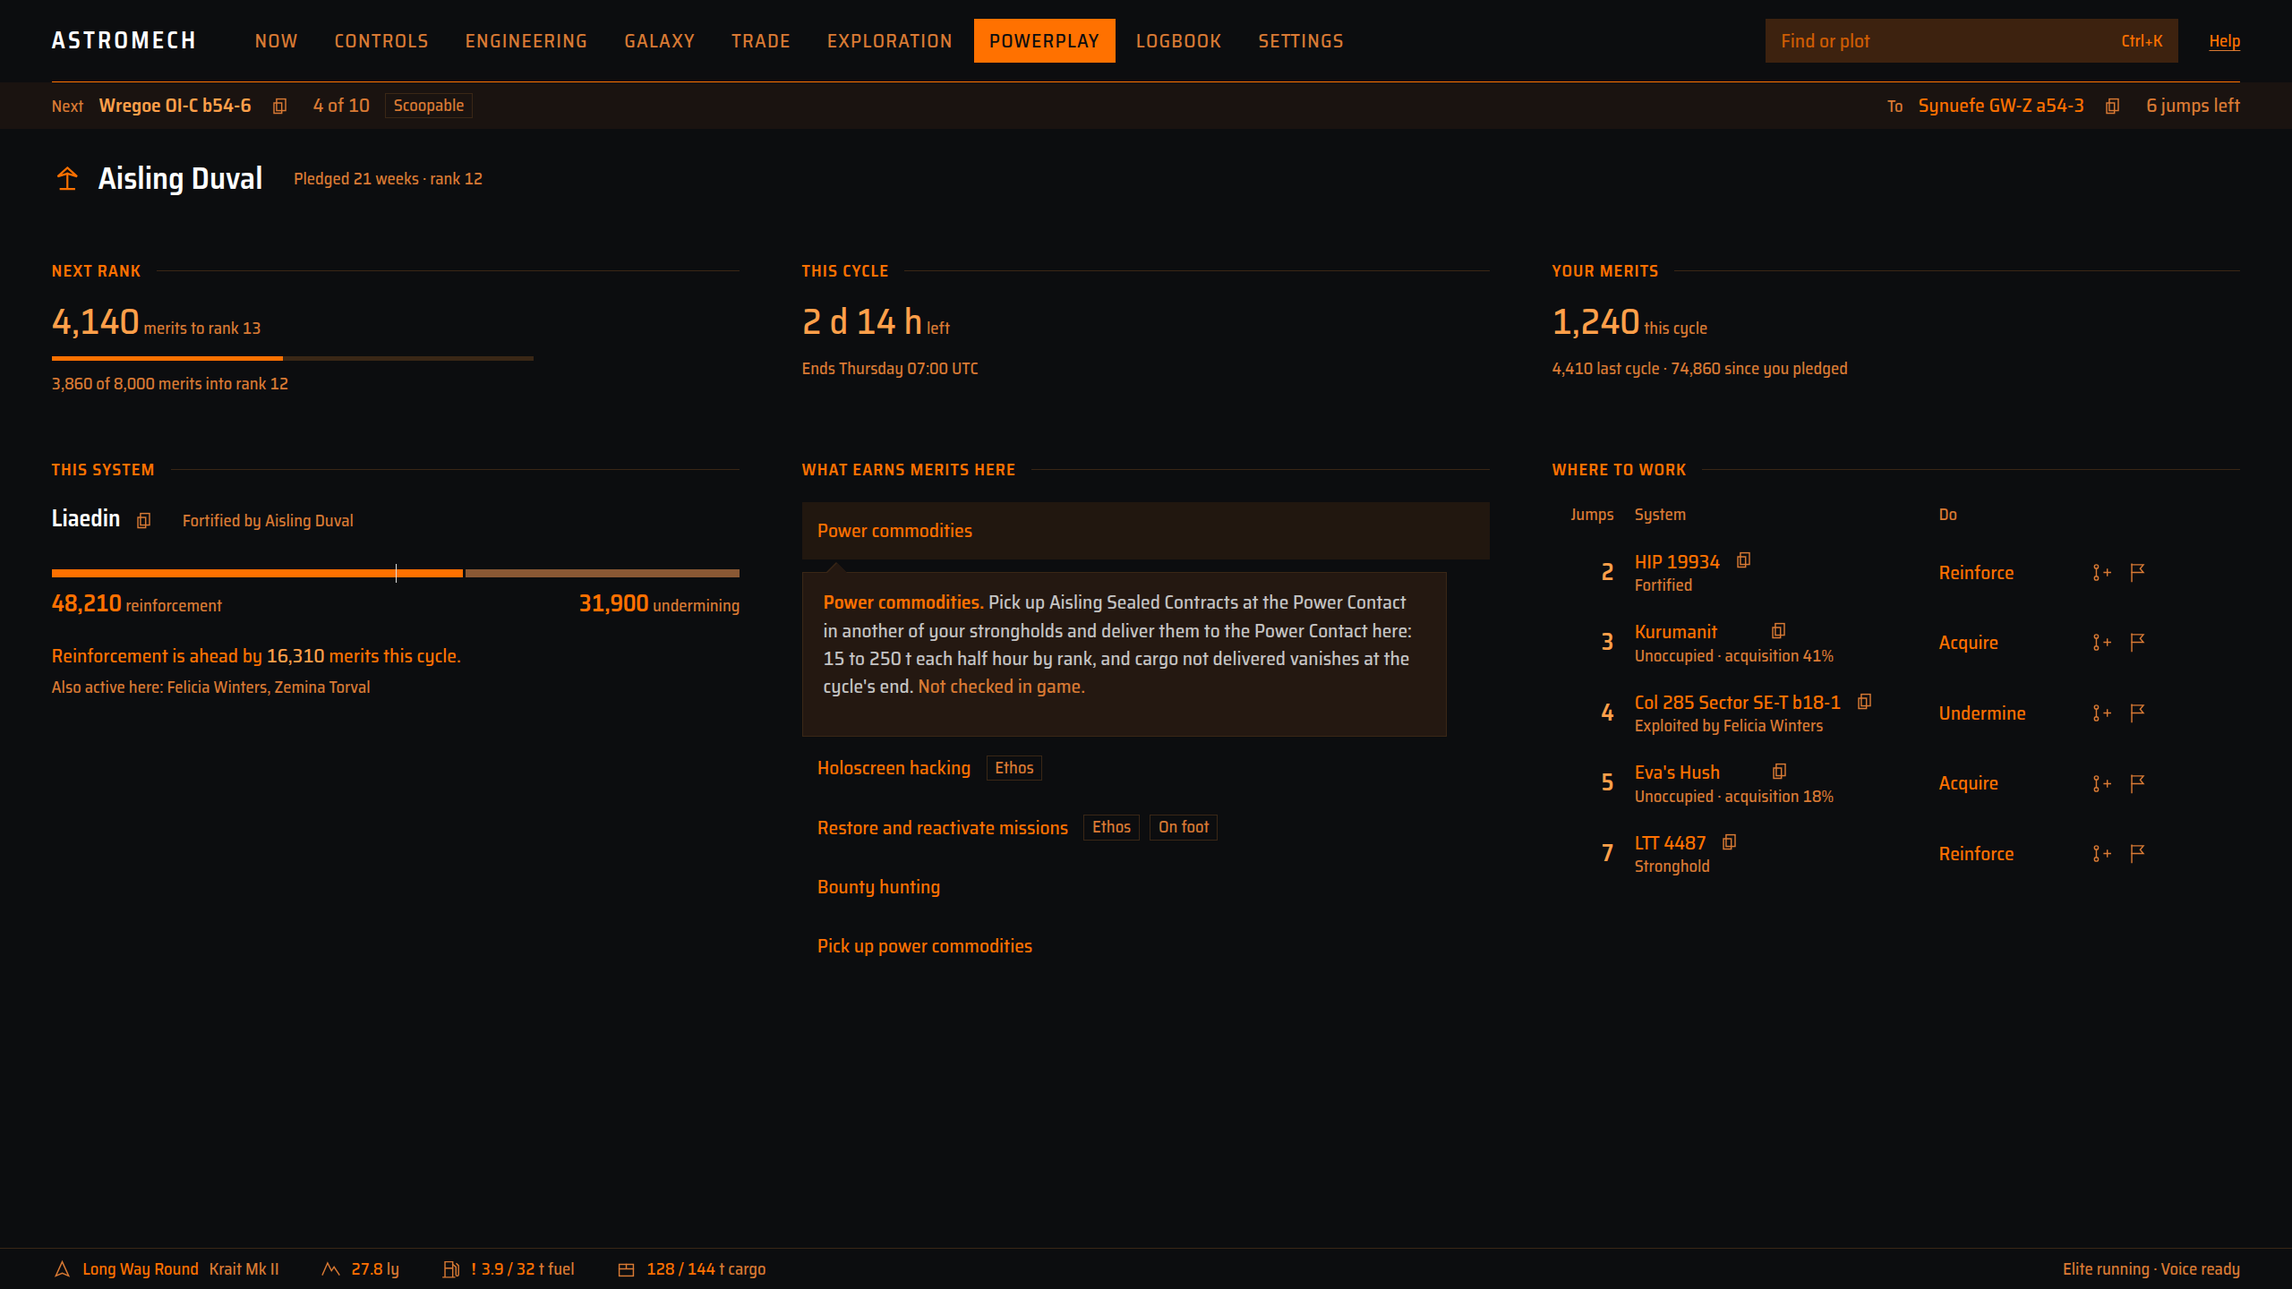
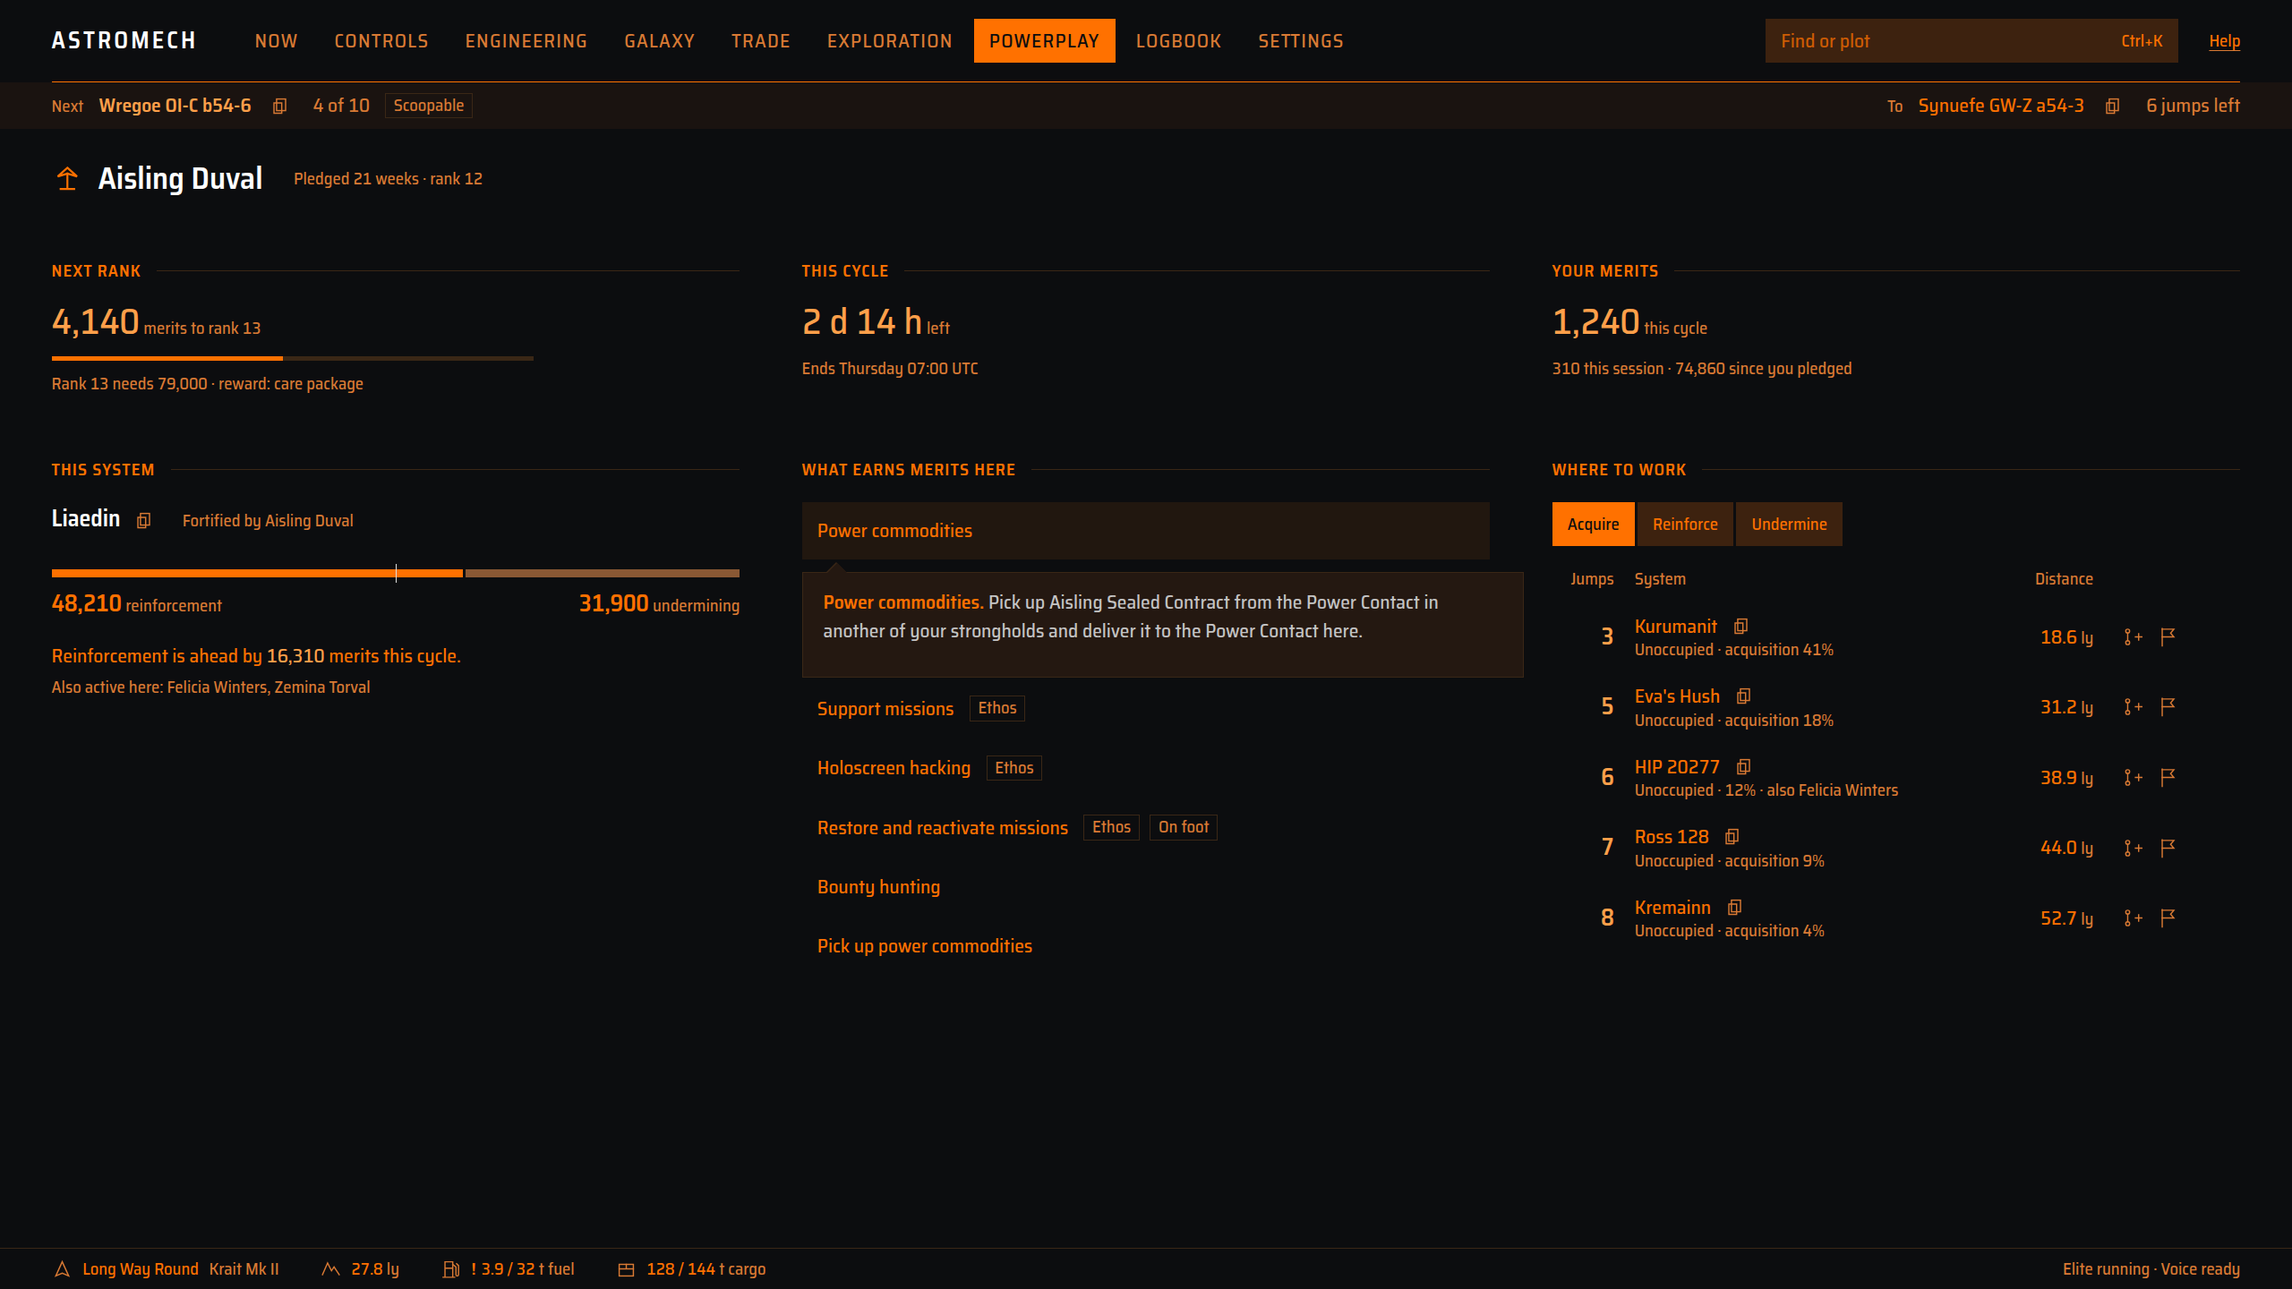
Glow-up mockups: show only data the app has
Engineers and Ship no longer show counted unlock progress (2 of 5, 9 of 25 and
the rest) or its meters: the unlock tree gives a step's text, not a count. The
Engineers panel leads with 'Invitation next' in words. The Bubble / Colonia
buttons are now a plain summary label. The Materials summary is worked out
from the grid (1,303 held). Powerplay drops the last-cycle total and keeps to
StandingView, PowerplaySystemView and the powerplay_targets reply: session and
lifetime merits, the next rank's threshold and reward, the activity's own
how-to text in the Tip, and one kind of target at a time chosen as on the real
page.

diff --git a/app/src/mockups/glow/Engineers.svelte b/app/src/mockups/glow/Engineers.svelte
@@ -1,35 +1,36 @@
 <script lang="ts">
   // Glow-up mockup: Engineering > Engineers as the unlock tree (List with a detail panel, the list
   // drawn as a graph). Columns by depth, each engineer joined to the one who introduces them.
-  // Unlocked: lit name and grade pips. Known, not unlocked: base orange with the one next step
-  // and a thin meter. Not introduced: dim. The links are the game's own introductions.
+  // Unlocked: lit name and grade pips (the journal gives the rank). Known or invited: base orange
+  // with the one next step in words, as the unlock tree states it; the app has no counted progress
+  // toward a step. Not introduced: dim. The links are the game's own introductions.
   import Frame from "./Frame.svelte";
   import Copy from "./Copy.svelte";
 
-  type Eng = { name: string; state: "unlocked" | "known" | "hidden"; grade?: number; at?: string; step?: string; have?: number; need?: number; count?: string; kids?: Eng[] };
+  type Eng = { name: string; state: "unlocked" | "known" | "hidden"; grade?: number; at?: string; step?: string; kids?: Eng[] };
   // The Bubble's ship engineers and their introductions, as data/catalog/engineer-unlocks.json
-  // has them; Colonia's four sit behind the Colonia choice. Introductions come once the rank with
+  // has them; Colonia's four are left out, and the summary line says so. Introductions come once the rank with
   // the introducer passes grade 3, so every introducer here with a known engineer is at grade 4+.
   const roots: Eng[] = [
     { name: "Felicity Farseer", state: "unlocked", grade: 5, at: "Deciat", kids: [
       { name: "Juri Ishmaak", state: "unlocked", grade: 4, at: "Giryak", kids: [
-        { name: "Colonel Bris Dekker", state: "known", step: "Hand in 1M cr of combat bonds", have: 420, need: 1000, count: "420k of 1M" },
+        { name: "Colonel Bris Dekker", state: "known", step: "Unlock: 1,000,000 cr of combat bonds" },
         { name: "The Sarge", state: "known", step: "Invitation: Federal Navy Midshipman" },
       ] },
     ] },
     { name: "Elvira Martuuk", state: "unlocked", grade: 5, at: "Khun", kids: [
-      { name: "Marco Qwent", state: "known", step: "Bring 25 Modular terminals", have: 9, need: 25, kids: [
+      { name: "Marco Qwent", state: "known", step: "Unlock: 25 Modular terminals", kids: [
         { name: "Professor Palin", state: "hidden" },
         { name: "Chloe Sedesi", state: "hidden" },
         { name: "Lori Jameson", state: "hidden" },
       ] },
-      { name: "Zacariah Nemo", state: "known", step: "Bring 25 Xihe biomorphic companions", have: 0, need: 25 },
+      { name: "Zacariah Nemo", state: "known", step: "Unlock: 25 Xihe biomorphic companions" },
     ] },
-    { name: "The Dweller", state: "known", step: "Deal at 5 black markets", have: 2, need: 5, kids: [
+    { name: "The Dweller", state: "known", step: "Invitation: deal at 5 black markets", kids: [
       { name: "Lei Cheung", state: "hidden", kids: [{ name: "Ram Tah", state: "hidden" }] },
     ] },
     { name: "Liz Ryder", state: "unlocked", grade: 4, at: "Eurybia", kids: [
-      { name: "Hera Tani", state: "known", step: "Bring 50 Kamitra cigars", have: 12, need: 50, kids: [
+      { name: "Hera Tani", state: "known", step: "Unlock: 50 Kamitra cigars", kids: [
         { name: "Broo Tarquin", state: "hidden" },
         { name: "Tiana Fortune", state: "hidden" },
       ] },
@@ -37,7 +38,7 @@
     { name: "Tod McQuinn", state: "unlocked", grade: 5, at: "Wolf 397", kids: [
       { name: "Selene Jean", state: "unlocked", grade: 5, at: "Kuk", kids: [
         { name: "Didi Vatermann", state: "unlocked", grade: 2, at: "Leesti" },
-        { name: "Bill Turner", state: "known", step: "Bring 50 Bromellite", have: 31, need: 50 },
+        { name: "Bill Turner", state: "known", step: "Unlock: 50 Bromellite" },
       ] },
     ] },
   ];
@@ -73,8 +74,7 @@
     <section class="main">
       <div class="bar">
         <span class="choices"><button class="choice on">Ship engineers</button><button class="choice">On-foot engineers</button></span>
-        <span class="choices"><button class="choice on">Bubble</button><button class="choice">Colonia</button></span>
-        <span class="label">{counts.unlocked} unlocked · {counts.known} known · {counts.hidden} not introduced yet</span>
+        <span class="label">Bubble ship engineers · {counts.unlocked} unlocked · {counts.known} known · {counts.hidden} not introduced yet</span>
       </div>
       <div class="graph" style="width: {3 * W + 2 * GX}px; height: {height}px; --w: {W}px; --h: {H}px">
         <svg width={3 * W + 2 * GX} height={height} aria-hidden="true">
@@ -86,8 +86,7 @@
             {#if n.state === "unlocked"}
               <span class="sub"><span class="pips">{#each [1, 2, 3, 4, 5] as g (g)}<span class:on={g <= (n.grade ?? 0)}></span>{/each}</span><span class="label">{n.at}</span></span>
             {:else if n.state === "known"}
-              <span class="sub step"><span class="label">{n.step}</span>{#if n.need}<span class="count">{n.count ?? `${n.have} of ${n.need}`}</span>{/if}</span>
-              {#if n.need && n.name !== selected}<span class="meter"><span style="width: {(100 * (n.have ?? 0)) / (n.need ?? 1)}%"></span></span>{/if}
+              <span class="sub"><span class="label">{n.step}</span></span>
             {:else}
               <span class="sub"><span class="label">Not introduced</span></span>
             {/if}
@@ -100,11 +99,11 @@
       <h2 class="title">The Dweller</h2>
       <p class="where"><span class="label">Black Hide in</span><span class="sys">Wyrd</span><Copy /></p>
       <p class="label">84 ly · 5 jumps</p>
-      <p class="key"><span class="vxl white">2</span><span class="unit">of 5 black markets</span></p>
+      <p class="key">Invitation next</p>
       <h3 class="section">To unlock</h3>
       <ol class="steps">
-        <li><span class="n">1</span><span>Invitation: deal in stolen or illicit goods at 5 black markets <span class="mid">· 2 of 5</span></span></li>
-        <li><span class="n">2</span><span>Unlock: pay 500,000 cr <span class="mid">· you have 41.2M</span></span></li>
+        <li><span class="n">1</span><span>Invitation: deal in stolen or illicit goods at 5 black markets</span></li>
+        <li><span class="n">2</span><span>Unlock at Wyrd: pay 500,000 cr</span></li>
       </ol>
       <h3 class="section">Works on</h3>
       <dl class="mods">
@@ -131,10 +130,6 @@
   .nm { font-weight: 500; line-height: 1.2; color: var(--accent); }
   .sub { display: flex; align-items: center; gap: var(--sp-3); min-width: 0; }
   .sub .label { overflow: hidden; text-overflow: ellipsis; }
-  .step { justify-content: space-between; }
-  .count { font-size: var(--fs-s); color: var(--accent); flex: none; }
-  .node .meter { position: absolute; left: 0; right: 0; bottom: 0; height: 2px; }
-  .node .meter > span { background: var(--orange-mid); }
   .node.unlocked .nm { color: var(--orange-lit); }
   .node.hidden { background: var(--bg); outline: 1px solid var(--line); outline-offset: -1px; }
   .node.hidden .nm, .node.hidden .label { color: var(--orange-dim); }
@@ -145,7 +140,7 @@
   .where { display: flex; align-items: baseline; gap: var(--sp-2); margin-top: var(--sp-1); white-space: nowrap; }
   .where :global(.copy) { align-self: center; margin-right: var(--sp-1); }
   .sys { color: var(--accent); }
-  .key { display: flex; align-items: baseline; margin: var(--sp-6) 0 var(--sp-8); }
+  .key { margin: var(--sp-6) 0 var(--sp-8); font-size: var(--fs-xl); font-weight: 500; line-height: 1.2; color: var(--text-hi); }
   .section { margin-bottom: var(--sp-3); }
   .steps { display: grid; gap: var(--sp-2); margin-bottom: var(--sp-8); }
   .steps li { display: flex; gap: var(--sp-3); color: var(--accent); }

diff --git a/app/src/mockups/glow/Powerplay.svelte b/app/src/mockups/glow/Powerplay.svelte
@@ -3,7 +3,8 @@
   // (merits to the next rank, time left in the cycle, merits this cycle); rank thresholds as
   // data/catalog/powerplay.json has them (rank 12 starts at 71,000 merits, 8,000 a rank); then this system's
   // control as a tug of war, what earns merits here as names with badges (the rules sit in a
-  // Tip, shown open), and where to work as a short result list ranked by jumps.
+  // Tip, shown open), and where to work as a short result list ranked by jumps. Every figure is a field of the
+  // powerplay_overview or powerplay_targets reply (StandingView, PowerplaySystemView, TargetHit).
   import Frame from "./Frame.svelte";
   import Copy from "./Copy.svelte";
   import Icon from "./Icon.svelte";
@@ -21,12 +22,13 @@
     ["Bounty hunting", []],
     ["Pick up power commodities", []],
   ];
+  // One powerplay_targets reply: one kind of work at a time, chosen as on the real page.
   const work = [
-    { jumps: "2", system: "HIP 19934", state: "Fortified", task: "Reinforce" },
-    { jumps: "3", system: "Kurumanit", state: "Unoccupied · acquisition 41%", task: "Acquire" },
-    { jumps: "4", system: "Col 285 Sector SE-T b18-1", state: "Exploited by Felicia Winters", task: "Undermine" },
-    { jumps: "5", system: "Eva's Hush", state: "Unoccupied · acquisition 18%", task: "Acquire" },
-    { jumps: "7", system: "LTT 4487", state: "Stronghold", task: "Reinforce" },
+    { jumps: "3", ly: "18.6", system: "Kurumanit", state: "Unoccupied · acquisition 41%" },
+    { jumps: "5", ly: "31.2", system: "Eva's Hush", state: "Unoccupied · acquisition 18%" },
+    { jumps: "6", ly: "38.9", system: "HIP 20277", state: "Unoccupied · 12% · also Felicia Winters" },
+    { jumps: "7", ly: "44.0", system: "Ross 128", state: "Unoccupied · acquisition 9%" },
+    { jumps: "8", ly: "52.7", system: "Kremainn", state: "Unoccupied · acquisition 4%" },
   ];
 </script>
 
@@ -43,7 +45,7 @@
         <h2 class="section">Next rank</h2>
         <p class="hero"><span class="vxl">4,140</span><span class="unit">merits to rank 13</span></p>
         <span class="meter"><span style="width: 48%"></span></span>
-        <p class="label">3,860 of 8,000 merits into rank 12</p>
+        <p class="label">Rank 13 needs 79,000 · reward: care package</p>
       </div>
       <div>
         <h2 class="section">This cycle</h2>
@@ -53,7 +55,7 @@
       <div>
         <h2 class="section">Your merits</h2>
         <p class="hero"><span class="vxl">1,240</span><span class="unit">this cycle</span></p>
-        <p class="label">4,410 last cycle · 74,860 since you pledged</p>
+        <p class="label">310 this session · 74,860 since you pledged</p>
       </div>
     </section>
 
@@ -80,10 +82,9 @@
               <span class="what">{what}</span>
               {#each badges as b (b)}<span class="badge">{b}</span>{/each}
               {#if i === 0}
-                <Tip side="below" width={500} pos="left: 0; height: 128px">
-                  <b>Power commodities.</b> Pick up Aisling Sealed Contracts at the Power Contact in another of your
-                  strongholds and deliver them to the Power Contact here: 15 to 250 t each half hour by rank, and
-                  cargo not delivered vanishes at the cycle's end. <span class="mid">Not checked in game.</span>
+                <Tip side="below" width={560} pos="left: 0; height: 82px">
+                  <b>Power commodities.</b> Pick up Aisling Sealed Contract from the Power Contact in another of
+                  your strongholds and deliver it to the Power Contact here.
                 </Tip>
               {/if}
             </li>
@@ -93,12 +94,13 @@
 
       <div>
         <h2 class="section">Where to work</h2>
+        <span class="choices target"><button class="choice on">Acquire</button><button class="choice">Reinforce</button><button class="choice">Undermine</button></span>
         <div class="work">
-          <span class="label r">Jumps</span><span class="label">System</span><span class="label">Do</span><span></span>
+          <span class="label r">Jumps</span><span class="label">System</span><span class="label r">Distance</span><span></span>
           {#each work as w (w.system)}
             <span class="r jumps">{w.jumps}</span>
-            <span class="place"><span class="wsys">{w.system}</span><Copy /><span class="label st">{w.state}</span></span>
-            <span class="task">{w.task}</span>
+            <span class="place"><span class="nameline"><span class="wsys">{w.system}</span><Copy /></span><span class="label st">{w.state}</span></span>
+            <span class="r ly">{w.ly}<span class="unit">ly</span></span>
             <span class="acts">
               <button class="ibtn" aria-label="Add {w.system} as a stop"><Icon name="add-stop" /></button>
               <button class="ibtn" aria-label="Set {w.system} as the destination"><Icon name="destination" /></button>
@@ -137,12 +139,14 @@
   .earn li.hover { background: var(--row-hover); }
   .what { color: var(--accent); margin-right: var(--sp-1); }
 
-  .work { display: grid; grid-template-columns: 48px minmax(0, 220px) 96px 64px; align-items: center; column-gap: var(--sp-4); row-gap: var(--sp-4); }
+  .work { display: grid; grid-template-columns: 48px minmax(0, 260px) 80px 64px; align-items: center; column-gap: var(--sp-4); row-gap: var(--sp-4); }
   .jumps { font-size: var(--fs-l); font-weight: 600; color: var(--orange-lit); }
-  .place { display: grid; grid-template-columns: auto auto; grid-template-rows: auto auto; justify-content: start; min-width: 0; column-gap: var(--sp-1); }
+  .place { display: flex; flex-direction: column; min-width: 0; }
+  .nameline { display: flex; align-items: center; gap: var(--sp-1); min-width: 0; }
   .wsys { color: var(--accent); white-space: nowrap; overflow: hidden; text-overflow: ellipsis; }
   .place :global(.copy) { margin: -4px 0; }
-  .st { grid-column: 1 / 3; margin-top: -2px; white-space: nowrap; overflow: hidden; text-overflow: ellipsis; }
-  .task { color: var(--accent); }
+  .st { margin-top: -2px; white-space: nowrap; overflow: hidden; text-overflow: ellipsis; }
+  .ly { color: var(--accent); }
+  .target { margin-bottom: var(--sp-4); }
   .acts { display: flex; }
 </style>

diff --git a/app/src/mockups/glow/Materials.svelte b/app/src/mockups/glow/Materials.svelte
@@ -17,6 +17,11 @@
     [["Lead", 120], ["Zirconium", 19], ["Boron", 0], ["Antimony", 5]],
   ];
   const need: Record<string, number> = { Vanadium: 12, Carbon: 20, Germanium: 10, Manganese: 6, Arsenic: 3, Tungsten: 4 };
+  // The summary line is worked out from the grid, so sample edits can't leave it wrong.
+  const all = grid.flat();
+  const held = all.reduce((sum, [, n]) => sum + n, 0);
+  const wanted = all.filter(([name]) => need[name]).length;
+  const short = all.filter(([name, n]) => n < (need[name] ?? 0)).length;
   const selected = "Vanadium";
   const tipOn = "Germanium";
 </script>
@@ -27,7 +32,7 @@
     <section class="main">
       <div class="bar">
         <span class="choices"><button class="choice on">Raw</button><button class="choice">Manufactured</button><button class="choice">Encoded</button></span>
-        <span class="label">1,265 held · 6 wanted by your plans, 3 short</span>
+        <span class="label">{held.toLocaleString("en-GB")} held · {wanted} wanted by your plans, {short} short</span>
       </div>
 
       <div class="grid">

diff --git a/app/src/mockups/glow/Ship.svelte b/app/src/mockups/glow/Ship.svelte
@@ -110,7 +110,7 @@
         <span>Hybrid capacitors</span><span class="r">1</span><span class="r"><span class="bang">!</span>0</span>
       </div>
       <p class="eng"><span class="label">Engineer</span><span class="ename">The Dweller</span><span class="label">Wyrd</span><Copy /></p>
-      <p class="warn"><span class="bang">!</span>Unlock The Dweller first: deal at 5 black markets, 2 of 5.</p>
+      <p class="warn"><span class="bang">!</span>Unlock The Dweller first. His invitation: deal at 5 black markets.</p>
       <div class="acts"><button class="primary">Add to plan</button><button class="act">Engineers</button></div>
     </aside>
 
